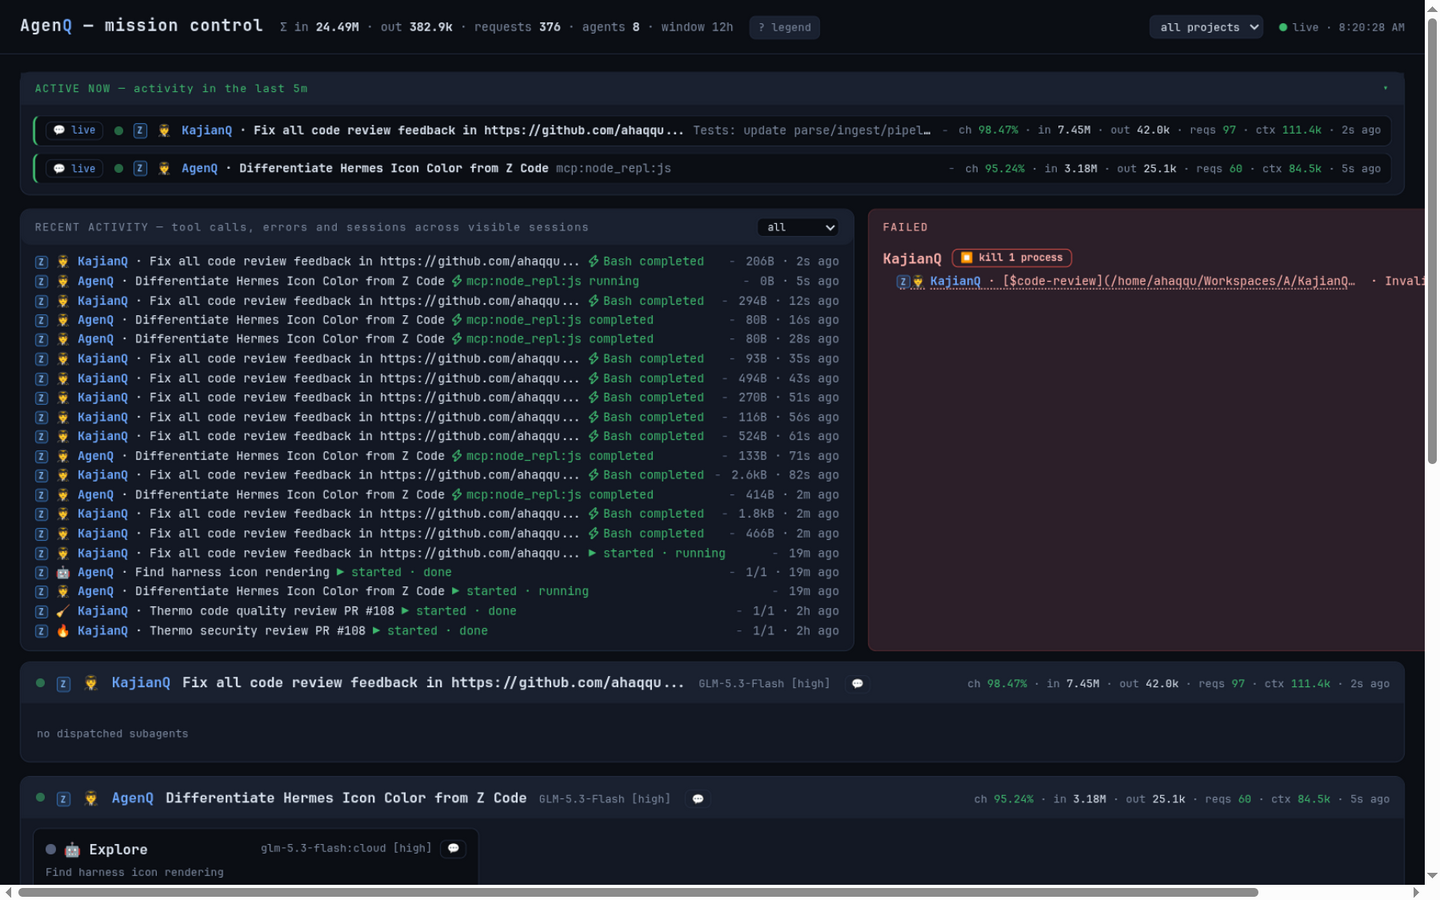
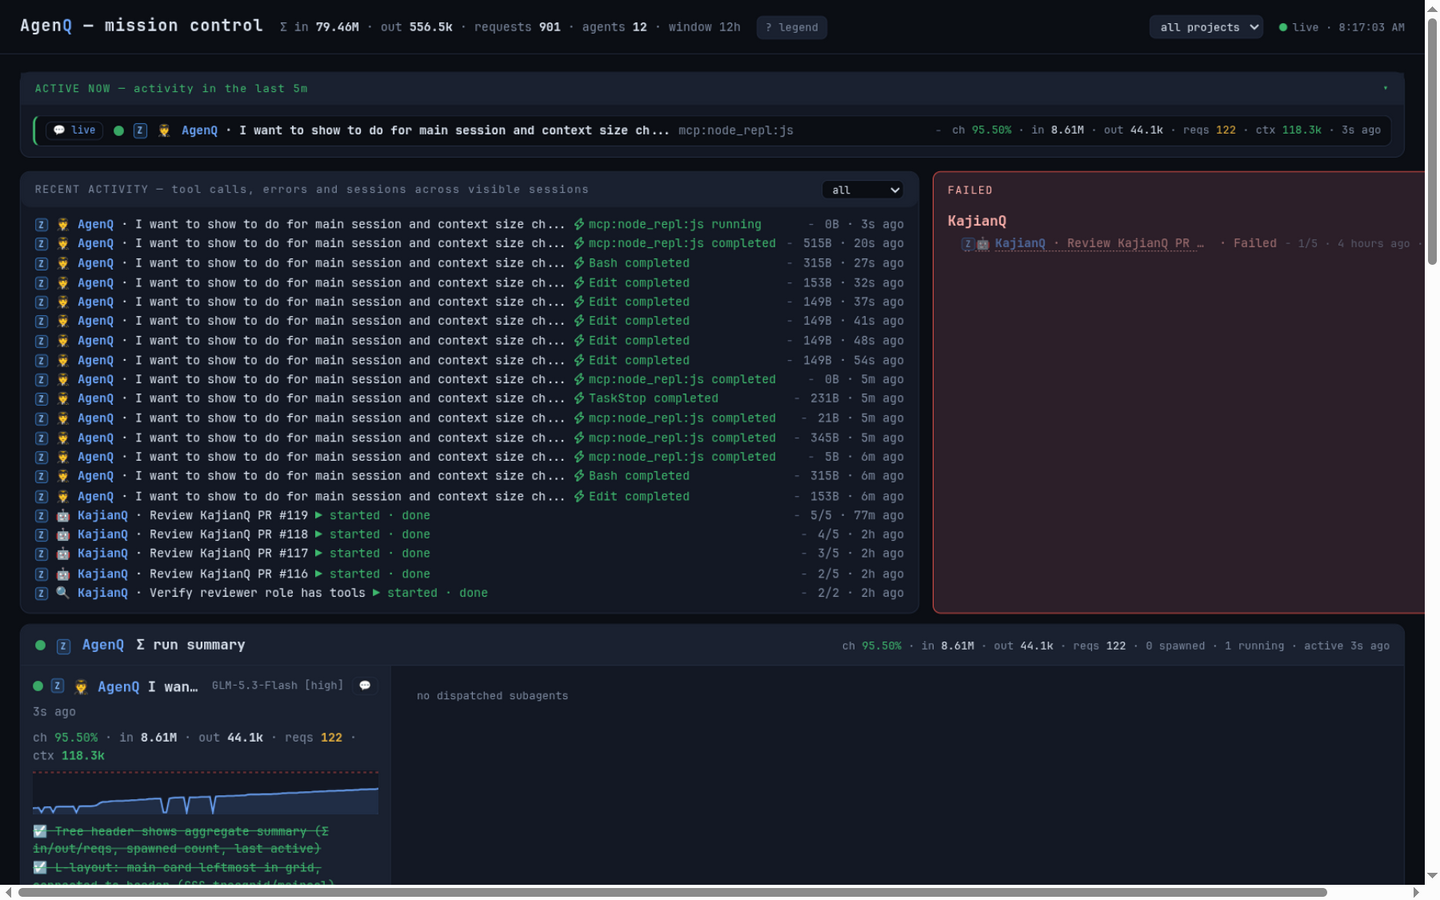
Feature: main session as full card hung off a run-summary header (#17)
- every card now shares the same anatomy (stats, sparkline, todos):
  the main session renders as a card like its subagents, leftmost in
  the row and connected to the header above it
- the tree header carries the session title plus run totals summed
  over the main session + spawned subagents (in/out/reqs, cache hit,
  spawned/running counts, last activity across the tree)
- no duplicated info: project, harness mark and title live only in
  the header; the main card is named 'main' like a subagent role
- todoListHtml/sparkHtml extracted so subagent cards and the main
  card render identical blocks

diff --git a/public/app.js b/public/app.js
@@ -112,31 +112,62 @@ const stoppedDirs = new Set(); // projects the user stopped this page-load
 // showHarness: only for cards outside a marked section (the "other
 // sessions" bucket) — cards under a root inherit the root head's mark,
 // so repeating the letter on every subagent card is noise
+function todoListHtml(s) {
+  return (s.todos ?? []).slice(0, 8).map((t) =>
+    `<li class="${esc(t.status)}">${t.status === "done" ? "☑" : t.status === "in_progress" ? "▸" : "☐"} ${esc(t.content)}</li>`
+  ).join("");
+}
+
+function sparkHtml(s) {
+  return `<canvas class="spark" id="spark-${s.id}" title="Token use per request. The dashed red line is the ${(CTX_LIMIT / 1000).toFixed(1)}k context cliff — past it the line turns red.&#10;x-axis: requests, oldest to newest (last 120, spaced by request order, not by time)&#10;y-axis: input tokens, 0 up to the ${(CTX_LIMIT / 1000).toFixed(1)}k cliff"></canvas>`;
+}
+
+// root head = run summary: carries the session title plus sums over the
+// main session + every spawned subagent, so the strip identifies the run
+// and its totals while each card below keeps its own numbers
+function treeHead(root, kids) {
+  const all = [root, ...kids];
+  const sum = (f) => all.reduce((a, s) => a + (f(s) ?? 0), 0);
+  const sumIn = sum((s) => s.inputTokens);
+  const ch = sumIn > 0 ? sum((s) => s.cacheRead) / sumIn : null;
+  const running = all.filter((s) => s.status === "running").length;
+  const lastAt = Math.max(0, ...all.map((s) => s.lastAt ?? 0));
+  // a dead run's failure keeps its red dot but stops pulsing
+  const dot = root.status === "failed" && root.live === false ? "exited" : root.status;
+  return `
+    <span class="status ${esc(dot)}" title="${esc(root.status)}${root.live === false ? " · process exited" : ""}"></span>
+    ${harnessMark(root)}
+    ${root.project ? `<span class="proj" title="${esc(root.project)}">${esc(shortProject(root.project))}</span>` : ""}
+    <span class="title">${esc(root.title ?? "main session")}</span>
+    <span class="meta">${ch != null ? `ch <span class="st ${chCls(ch)}">${(ch * 100).toFixed(2)}%</span> · ` : ""}in <b>${fmt(sumIn)}</b> · out <b>${fmt(sum((s) => s.outputTokens))}</b> · reqs <b>${fmt(sum((s) => s.requests))}</b> · ${kids.length} spawned${running ? ` · ${running} running` : ""} · active ${ago(lastAt)}</span>`;
+}
+
 function agentCard(s, showHarness = true) {
-  const name = s.role ?? (s.title ? "main" : "session");
-  const sparkId = "spark-" + s.id;
+  // main sessions render through the same card as subagents; project,
+  // harness mark and title live in the tree header above, so the card
+  // just says "main" the way subagent cards say their role
+  const isMain = !s.role;
+  const name = isMain ? "main" : s.role;
   const modelHtml = [s.model, s.thinking && `[${s.thinking}]`].filter(Boolean).join(" ");
   // icon grammar everywhere: status dot → harness mark → role icon → name
   const harnessBadge = showHarness ? harnessMark(s) : "";
   // a dead run's failure keeps its red dot but stops pulsing
   const dot = s.status === "failed" && s.live === false ? "exited" : s.status;
-  const todoHtml = (s.todos ?? []).slice(0, 8).map((t) =>
-    `<li class="${esc(t.status)}">${t.status === "done" ? "☑" : t.status === "in_progress" ? "▸" : "☐"} ${esc(t.content)}</li>`
-  ).join("");
+  const todoHtml = todoListHtml(s);
   return `
   <div class="kid" id="kid-${s.id}">
     <div class="row">
       <span class="status ${esc(dot)}" title="${esc(s.status)}${s.live === false ? " · process exited" : ""}"></span>
       ${harnessBadge}
       <span>${roleIcon(s)}</span>
-      <span class="name">${esc(name)}</span>
+      <span class="name${isMain ? " mainname" : ""}">${esc(name)}</span>
       <span class="model">${esc(modelHtml)}</span>
       <button class="convbtn" data-conv="${esc(s.id)}" title="open the live conversation in a new tab">💬</button>
     </div>
     ${s.description ? `<div class="desc" title="${esc(s.description)}">${esc(s.description)}</div>` : ""}
     <div class="when">${s.status === "sleep" ? "💤 " : ""}${ago(s.lastAt)}</div>
     <div class="nums"><span class="stats">${statsHtml(s)}</span></div>
-    <canvas class="spark" id="${sparkId}" title="Token use per request. The dashed red line is the ${(CTX_LIMIT / 1000).toFixed(1)}k context cliff — past it the line turns red.&#10;x-axis: requests, oldest to newest (last 120, spaced by request order, not by time)&#10;y-axis: input tokens, 0 up to the ${(CTX_LIMIT / 1000).toFixed(1)}k cliff"></canvas>
+    ${sparkHtml(s)}
     ${todoHtml ? `<ul class="todos">${todoHtml}</ul>` : ""}
     ${s.lastError ? `<div class="err">⚠ ${esc(humanType(s.lastError.type))}: ${esc(s.lastError.message ?? "")}${s.live === false ? " · run exited" : ""}</div>` : ""}
     ${s.lastError && s.directory && stoppedDirs.has(s.directory) ? `<div class="stoppedmark">⏹ stopped by you — project run killed</div>` : ""}
@@ -393,17 +424,11 @@ function render(state) {
     kids.forEach((k) => seen.add(k.id));
     sections.push(`
       <div class="root" id="root-${esc(root.id)}">
-        <div class="head">
-          <span class="status ${esc(root.status === "failed" && root.live === false ? "exited" : root.status)}" title="${esc(root.status)}${root.live === false ? " · process exited" : ""}"></span>
-          ${harnessMark(root)}
-          <span>🧑✈</span>
-          ${root.project ? `<span class="proj" title="${esc(root.project)}">${esc(shortProject(root.project))}</span>` : ""}
-          <span class="title">${esc(root.title ?? "main session")}</span>
-          <span class="model">${esc([root.model, root.thinking && `[${root.thinking}]`].filter(Boolean).join(" "))}</span>
-          <button class="convbtn" data-conv="${esc(root.id)}" title="open the live conversation in a new tab">💬</button>
-          <span class="meta">${statsHtml(root)} · ${root.status === "sleep" ? "💤 " : ""}${ago(root.lastAt)}</span>
+        <div class="head">${treeHead(root, kids)}</div>
+        <div class="treegrid">
+          <div class="maincol">${agentCard(root, false)}</div>
+          <div class="kids">${kids.map((s) => agentCard(s, false)).join("") || `<div class="desc" style="padding:6px 4px">no dispatched subagents</div>`}</div>
         </div>
-        <div class="kids">${kids.map((s) => agentCard(s, false)).join("") || `<div class="desc" style="padding:6px 4px">no dispatched subagents</div>`}</div>
       </div>`);
   }
   const orphans = state.sessions.filter((s) => !seen.has(s.id) && matches(s)).sort(byLast);

diff --git a/public/index.html b/public/index.html
@@ -96,15 +96,32 @@
   .root { border: 1px solid var(--line); border-radius: 10px; background: var(--panel); overflow: hidden; }
   .root > .head {
     padding: 10px 14px; background: var(--panel2); display: flex; gap: 12px; align-items: baseline;
-    cursor: default;
+    cursor: default; border-bottom: 1px solid var(--line);
   }
-  .head .title { font-weight: 700; }
+  .head .title { font-weight: 700; min-width: 0; overflow: hidden; text-overflow: ellipsis; white-space: nowrap; }
   .head .model { color: var(--dim); font-size: 11px; }
   /* token stats ride the right edge, like the active-now chips */
   .head .meta { flex: 0 1 auto; margin-left: auto; min-width: 20ch; max-width: 62%; overflow: hidden; text-overflow: ellipsis; white-space: nowrap; text-align: right; }
   .head .meta { color: var(--dim); font-size: 11px; }
   .head .meta b { color: var(--text); font-weight: 400; }
   .kids { padding: 10px 12px 14px; display: grid; gap: 10px; grid-template-columns: repeat(auto-fill, minmax(340px, 1fr)); }
+  /* the run tree: main session card hangs off the header on the left,
+     subagent cards fill the grid to its right. Same card anatomy everywhere;
+     the main card drops its top border/radius so it reads as connected to
+     the summary header above it */
+  .treegrid { display: grid; grid-template-columns: minmax(300px, 380px) minmax(0, 1fr); align-items: start; }
+  .maincol { padding: 0 10px 14px 0; min-width: 0; }
+  .maincol .kid { background: var(--panel2); border-top: 0; border-left: 0; border-top-left-radius: 0; border-top-right-radius: 0; border-bottom-left-radius: 0; }
+  .maincol .kid .mainname {
+    flex: 0 1 auto; min-width: 0;
+    overflow: hidden; text-overflow: ellipsis; white-space: nowrap;
+  }
+  .maincol .kid .model { flex: none; white-space: nowrap; }
+  @media (max-width: 1100px) {
+    .treegrid { grid-template-columns: 1fr; }
+    .maincol { padding: 0 12px 14px; }
+    .maincol .kid { border-left: 1px solid var(--line); border-bottom-left-radius: 8px; border-bottom-right-radius: 8px; }
+  }
   .kid {
     border: 1px solid var(--line); border-radius: 8px; background: var(--bg);
     padding: 10px 12px; transition: border-color .4s, box-shadow .4s;

diff --git a/README.md b/README.md
@@ -4,12 +4,12 @@ Live mission-control monitor for AI coding-agent harnesses — ZCode and [Hermes
 
 AgenQ reads (read-only) the telemetry harnesses already write on disk and turns it into a live board:
 
-![AgenQ mission control — sessions from ZCode and Hermes merged into one board ordered by recency, every row carrying its color-coded harness letter mark (blue Z = zcode, orange H = hermes), a recent-activity feed (tool calls, errors, session starts) with a category filter capped at 20 rows — full-width when no failures — failure alerts, and token-burn sparklines against the 200k context cliff; main-session and subagent cards each carry a 💬 button into the live conversation](docs/screenshot.png)
+![AgenQ mission control — sessions from ZCode and Hermes merged into one board ordered by recency, every row carrying its color-coded harness letter mark (blue Z = zcode, orange H = hermes), a recent-activity feed (tool calls, errors, session starts) with a category filter capped at 20 rows — full-width when no failures — failure alerts, and token-burn sparklines against the 200k context cliff on every card; each run has a header with the session title and totals over main + subagents, the main-session card hanging off it on the left with its subagent cards beside it, every card carrying a 💬 button into the live conversation](docs/screenshot.png)
 
 - **One merged board** — sessions from every mounted harness mix in the same tree, ticker, Active Now strip and failure panel, ordered by project and then recency; only the small boxed-letter mark (a blue Z for zcode, an orange H for hermes — each harness has its own accent color, hover for the name) says which harness runs an agent — nothing else is separated
 - **Agent tree** — the manager session with every dispatched subagent under it (role, model, live status)
-- **Token-burn sparklines** — input tokens per request per agent, with a dashed marker at the 200K context cliff (the cliff that cost 36M tokens in the run that motivated this tool — see ahaqqu/agentic-project-template#94)
-- **Live todos** — each agent's todo list, animated as it progresses
+- **Token-burn sparklines** — input tokens per request per agent — main sessions and subagents alike — with a dashed marker at the 200K context cliff (the cliff that cost 36M tokens in the run that motivated this tool — see ahaqqu/agentic-project-template#94)
+- **Live todos** — each agent's todo list, animated as it progresses; every card shares the same anatomy (stats, sparkline, todos) — the main session card ("main", like a role) sits leftmost in the row, hung off a header that carries the session title plus run totals (sum of in/out/reqs, cache hit, spawned subagent count, how many are running, last activity across the whole tree)
 - **Active Now strip** — every session with a heartbeat in the last 5m; click a row to expand it into a live detail panel: the current tool call with its actual arguments, the latest thinking excerpt, todo progress, diff summary, context-window fill, turn timings (duration, time-to-first-token, retries), a full token breakdown (cache read/write, reasoning) and recent errors
 - **Live conversation** — the 💬 button opens the session's full conversation in a new tab (user prompts, assistant replies, collapsed thinking, tool calls with status), streaming new messages as they happen; the header carries the harness mark too. The button lives on Active Now rows, main-session cards and every subagent card
 
